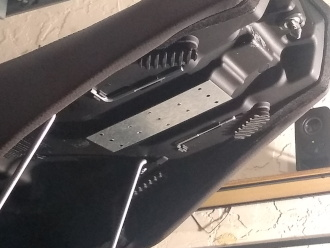
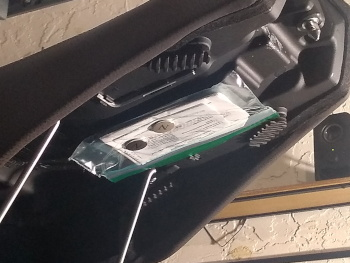
Update

diff --git a/my_bikes/index.html b/my_bikes/index.html
@@ -3,7 +3,7 @@
     <title>My Bikes</title>
     <style>
       .home { position: fixed; top: 0px; right: 10px; }
-      img { float: right; margin: 0px 0px 15px 20px; }
+      img { margin: 5px 5px 5px 5px; }
     </style>
   </head>
   <body>
@@ -427,22 +427,22 @@
             enough for the bolt head, leading to a lot of frustration getting the bolts out to take the seat off. I bought longer bolts from
             <a target="_blank" href="https://www.mcmaster.com/">McMaster-Carr</a> as well as bushings to use as stand-offs.</p>
           <p>There's nowhere to store your registration and papers, so I 3D printed end caps for the tubular hole in the frame. It's
-            <a target="_blank" href="https://www.thingiverse.com/thing:4832517">thing #4832517</a> on Thingiverse.</p>
+            <a target="_blank" href="https://www.thingiverse.com/thing:4832517">Thing #4832517</a> on Thingiverse.</p>
           Mods:
           <ul>
-            <li>Horizon blue bodywork</li>
-            <li>OEM top box rack
+            <li>Horizon blue bodywork.</li>
+            <li>OEM top box rack.
               <ul>
-                <li>Givi E251 adapter plate</li>
+                <li>Givi E251 adapter plate.</li>
             </ul></li>
-            <li>OEM side case racks
+            <li>OEM side case racks.
               <ul>
                 <li>#8486A451 Metric Press-Fit Drill Bushings 8mm ID, 12mm OD, 20mm long (stand-off)</li>
                 <li>#91290A462 M8x1.25 80mm black-oxide alloy steel socket head screws</li>
                 <li>#92595A518 M8x1.25 80mm wing-head thumbscrews (tool-less removal)</li>
               </ul></li>
-            <li>OEM 12v cigarette lighter outlet</li>
-            <li>2 RAM Mount U-bolt bases on handlebar</li>
+            <li>OEM 12v cigarette lighter outlet.</li>
+            <li>2 RAM Mount U-bolt bases on handlebar.</li>
             <li>Seat bolts and standoffs.</li>
           </ul>
         </td>
@@ -461,43 +461,57 @@
             nice.</p>
           <p><b>Lose:</b> Hm, how shall I count the ways... they're small but numerous little complaints. In order of severity:
             <ol>
-              <li>Regen flashes the brakelight obnoxiously on the slightest deceleration, so I had to turn off regen completely to stop
+              <li>Regen flashes the brakelight obnoxiously on the slightest deceleration, so I had to turn regen off completely to stop
                 pissing off other drivers and having them honk their horns and yelling at me. This was confirmed by pointing my Drift camera
-                at the brake light. This is a true misfeature.</li>
-              <li>Footpegs are at least an inch and a half too high. This makes the seat horribly uncomfortable. My butt can't make it to
-                50% range without stopping. Confirmed by makeshift stirrups and a 50 mile ride up I-95. No aftermarket solutions available
-                yet. I may just make some L-shaped bars out of desperation.</li>
+                at the brake light. IT DOES NOT TELL YOU ANYTHING ON THE DASH. This is a true misfeature.</li>
+              <li>Footpegs are at least an inch and a half too high. This makes my toes point up at 45&deg;, keeps me from being able to use
+                the rear brake, and makes the seat horribly uncomfortable. My butt can't make it to 50% range without stopping. No
+                aftermarket solutions available yet. I made <a target="_blank" href="https://www.thingiverse.com/thing:4917062">40mm lower
+                brackets</a>
+                out of desperation.</li>
+              <li>Keyless ignition mostly doesn't work. It pretty much takes 2 tries to start the bike, sometimes 3, when the fob is right
+                there in my pocket or on the tank. I stand there like an idiot holding the button down, waiting for it to unlock while the
+                stupid LED flashes at me.  It complains about "key not in range" when I'm riding it. New batteries don't help. I can't lock
+                the forks like a regular bike.</li>
               <li>The supplied Primecom.tech charger stops charging constantly, and the bike complains about not being able to balance the
-                battery. I have to restart it 2 or 3 times to get a full charge. I solved this by getting an OpenEVSE charger.</li>
+                battery. I have to restart it 2 or 3 times to get a full charge. I solved this by getting an <a target="_blank"
+                href="https://openevse.com/">OpenEVSE charger</a>.</li>
               <li>Extremely optimistic speedometer. Says I'm doing 79-80 when the GPS says I'm doing 70.</li>
-              <li>Keyless ignition complains about "key not in range". New batteries don't help. I stand there like an idiot holding the
-                button down, waiting for it to unlock while the stupid LED flashes at me. I can't lock the forks like a regular bike.</li>
               <li>No rear fender. Hope you like a "skunk stripe" on the back of your jacket in the wet Florida summer, and constantly
                 brushing trash off the back of the seat.</li>
               <li>Givi bag attachments are some weird one-off mechanism, so my large collection of luggage isn't compatible.</li>
-              <li>There's nowhere to store your registration and papers.</li>
-              <li>Android app doesn't work at all. Nothing happens when I follow the procedure to connect. It's another case where the
-                official phone app doesn't work, but I'm not missing much since I can access everything through the dash, unlike the Zero
-                where you need the app to modify the custom mode settings.</li>
+              <li>Givi bags are cheap fabric ones, not real plastic ones. The zipper mechanism is a pain in the ass and not lockable.</li>
+              <li>There's nowhere to store your registration and papers. I put a metal plate under the seat and used thin magnets to hold my
+                papers.</li>
+              <li>Android app doesn't work at all. Nothing happens when I follow the procedure to connect. It's another case like Zero where
+                the official phone app doesn't work, but I'm not missing much since I can access everything through the dash, unlike the
+                Zero where you need the app to modify the custom mode settings.</li>
               <li>A bit heavy. An acceptable trade-off for so much battery. Parking-lot reverse makes it a non-issue.</li>
+              <li>I've been waiting for the race stands I bought with the bike since 18-JUN-2021.</li>
             </ol>
           </p>
           <p>The dealership offered an good trade-in for the VFR, so I got rid of a bike I didn't like, got a bike I do like, and paid a
             fair price.</p>
           <p>It's nice to just flip the seat open and charge. Maybe I should have gotten the charge tank for the Zero instead of the power
             tank. It's even nicer to DC fast charge in 20 minutes, if I don't mind paying the $10-$15 bucks.</p>
-          <p>It's a nice bike, but it's got enough little irritating flaws that my Zero remains my daily driver.</p>
+          <p>It's a nice bike, but it's got enough irritating flaws that my Zero remains my daily driver.</p>
           Mods:
           <ul>
-            <li>RAM Mount U-bolt base on handlebar</li>
+            <li>RAM Mount U-bolt base on handlebar.</li>
             <li>Attached a "TP-15 tie plate" (which is just a thin rectangle of steel) to the underside of the seat with double-sided tape,
               then put thin magnets on a "snack-size" (half a regular bag) ziplock bag, and put my registration in there. The magnets don't
-              come off or seem to cause issues. The whole thing is less than 3mm thick.<br>
-              <img src="ss9_tie_plate.jpg"><img src="ss9_papers.jpg">
+              come off or seem to cause issues. The whole thing is less than 3mm thick.
             </li>
+            <li>Home made brackets to lower the footpegs 40mm. See <a target="_blank" href="https://www.thingiverse.com/thing:4917062">Thing
+                #4917062</a> for 3D-printed templates to help make them.</li>
           </ul>
         </td>
-        <td><img src="energica.png"></td>
+        <td>
+          <img src="energica.png"><br>
+          <img src="ss9_tie_plate.jpg"><br>
+          <img src="ss9_papers.jpg">
+          <img src="ss9_bracket.jpg">
+        </td>
       </tr>
     </table>
    </body>

diff --git a/index.html b/index.html
@@ -24,6 +24,10 @@
       <li><a href="zero_canbus/index.html">Zero Motorcycle CANBUS information</a></li>
       <li><a href="obd-II_dongle/index.html">Installing a Bluetooth OBD-II dongle on a Zero motorcycle (outdated)</a></li>
     </ul>
+    <b>Energica Electric Motorcycle</b>
+    <ul>
+      <li><a href="https://www.thingiverse.com/thing:4917062">3D printed templates for footpeg brackets</a></li>
+    </ul>
     <b>Code</b>
     <ul>
       <li><a href="garage_door/index.html">Automated garage door controller</a></li>
